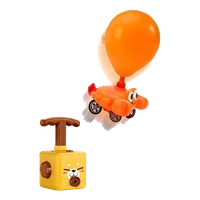
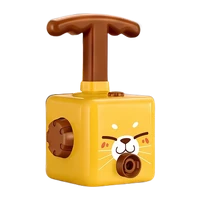
Дракон и багги переделаны, вуаль под героем, в кружках наборов только насос, подпись внизу убрана
- багги: заднее колесо дорисовано чистым, без пыли и листьев поверх; фон и вырезка пересобраны
- дракон: новая цельная сцена по референсам комплекта — насос и машинка как в наборе, машинка вылетает из насоса
- вуаль палитры лежит между фоном и героем, тон у наборов глубокий: насос больше не сливается с полом
- кружки наборов — только насос; служебная подпись внизу убрана

diff --git a/index.html b/index.html
@@ -109,15 +109,19 @@
     background:radial-gradient(50% 50% at 50% 50%, rgba(0,0,0,.35), rgba(0,0,0,0) 72%);
     transform-origin:center; pointer-events:none;
   }
-  .tint{
-    position:absolute; inset:0; z-index:1; pointer-events:none;
-    background:linear-gradient(to top, var(--bg) 0%, var(--bg) 6%, rgba(0,0,0,0) 100%);
+  /* Передний кадр повторяет геометрию фона, но без маски: герой не тускнеет у краёв */
+  .layer .frame.fg{-webkit-mask-image:none; mask-image:none}
+  /* Вуаль — затемнение в тоне палитры: внизу под текст, вверху под логотип. Лежит МЕЖДУ фоном и героем,
+     поэтому товар остаётся ярким, а пол вокруг него уходит в тень — насос не сливается с фоном */
+  .layer .veil{
+    position:absolute; inset:0; pointer-events:none;
+    background:linear-gradient(to top, var(--bg) 0%, var(--bg) 4%, rgba(0,0,0,0) 58%);
   }
   @supports (background: color-mix(in srgb, red 50%, transparent)){
-    .tint{
+    .layer .veil{
       background:
-        linear-gradient(to top, var(--bg) 0%, var(--bg) 4%, color-mix(in srgb, var(--bg) 80%, transparent) 22%, color-mix(in srgb, var(--bg) 35%, transparent) 46%, rgba(0,0,0,0) 62%),
-        linear-gradient(to bottom, color-mix(in srgb, var(--bg) 45%, transparent) 0%, rgba(0,0,0,0) 22%);
+        linear-gradient(to top, var(--bg) 0%, color-mix(in srgb, var(--bg) 94%, transparent) 10%, color-mix(in srgb, var(--bg) 75%, transparent) 24%, color-mix(in srgb, var(--bg) 42%, transparent) 40%, rgba(0,0,0,0) 56%),
+        linear-gradient(to bottom, color-mix(in srgb, var(--bg) 42%, transparent) 0%, rgba(0,0,0,0) 20%);
     }
   }
 
@@ -203,11 +207,6 @@
   }
   .rail button:focus-visible{outline-offset:4px}
 
-  .foot{
-    position:absolute; left:var(--gutter); bottom:calc(10px + env(safe-area-inset-bottom)); z-index:2;
-    margin:0; font-size:14px; color:var(--fg2); display:none;
-  }
-
   /* Низкие экраны: миниатюры компактнее, чтобы лента умещалась над текстом */
   @media (max-height:700px) and (max-width:899px){
     :root{--thumb:50px; --rail-gap:8px}
@@ -232,7 +231,6 @@
     .short{font-size:18px; margin-top:14px}
     .pills{margin-top:28px; gap:12px}
     .pill{height:56px; padding:0 24px 0 22px; font-size:17px}
-    .foot{display:block}
   }
   @media (min-width:1600px){
     h1{font-size:58px}
@@ -246,7 +244,6 @@
 <body>
 <div class="scene" id="scene">
   <div class="cover" id="cover" aria-hidden="true"></div>
-  <div class="tint" aria-hidden="true"></div>
   <header class="top">
     <a class="logo" href="#" id="logo-link" aria-label="Dasdorrio — в начало">
       <img id="logo" src="logo/dasdorrio-light.webp" width="340" height="171" alt="Dasdorrio">
@@ -263,7 +260,6 @@
   </main>
 
   <nav class="rail" id="rail" aria-label="Выбор товара"></nav>
-  <p class="foot">Товары продаются на маркетплейсах и в магазине — сайт только показывает, где.</p>
   <noscript><p style="padding:20px">Для выбора товара нужен JavaScript. Все товары есть на Wildberries и Ozon по запросу «Dasdorrio».</p></noscript>
 </div>
 
@@ -351,7 +347,7 @@
     });
   }
 
-  /* Слой сцены: размытая заливка + кадр с фоном, героем на своём месте и тенью под ним */
+  /* Слой сцены: размытая заливка + кадр с фоном + вуаль + передний кадр с тенью и героем на своём месте */
   function buildLayer(t, g) {
     var box = t.геройБокс || [0.3, 0.3, 0.4, 0.4];
     var layer = document.createElement('div');
@@ -363,19 +359,21 @@
       var bg = document.createElement('img'); bg.className = 'bg'; bg.src = t.сцена; bg.alt = '';
       frame.appendChild(bg);
     }
+    var veil = document.createElement('div'); veil.className = 'veil';
+    var fg = document.createElement('div'); fg.className = 'frame fg';
     var shadow = document.createElement('div'); shadow.className = 'shadow';
     shadow.style.setProperty('--sx', (box[0] + box[2] * 0.08) * 100 + '%');
     shadow.style.setProperty('--sw', box[2] * 0.84 * 100 + '%');
     shadow.style.setProperty('--sy', (box[1] + box[3] * 0.93) * 100 + '%');
     shadow.style.setProperty('--sh', box[3] * 0.12 * 100 + '%');
-    frame.appendChild(shadow);
+    fg.appendChild(shadow);
     var hero = document.createElement('img'); hero.className = 'hero';
     hero.src = t.герой; hero.alt = t.название; hero.setAttribute('fetchpriority', 'high');
     hero.style.setProperty('--hx', box[0] * 100 + '%');
     hero.style.setProperty('--hy', box[1] * 100 + '%');
     hero.style.setProperty('--hw', box[2] * 100 + '%');
-    frame.appendChild(hero);
-    layer.appendChild(blur); layer.appendChild(frame);
+    fg.appendChild(hero);
+    layer.appendChild(blur); layer.appendChild(frame); layer.appendChild(veil); layer.appendChild(fg);
     return { layer: layer, frame: frame, hero: hero, shadow: shadow };
   }
 

diff --git a/products.js b/products.js
@@ -7,14 +7,17 @@
    название   — крупно на сцене, 1–3 слова
    коротко    — одна строка под названием, до 45 знаков, без рекламных прилагательных
    герой      — вырезанный товар без фона, webp до 1200 px и ≤ 150 КБ
-   миниатюра  — квадрат 160×160 для ленты справа, ≤ 15 КБ
+   миниатюра  — квадрат 200×200 для ленты справа, ≤ 18 КБ: товар целиком,
+                у наборов — только насос, самая узнаваемая деталь
    сцена      — цельная картинка мира товара БЕЗ самого товара (photo/bg/), квадрат 1400 px, ≤ 130 КБ;
                 герой вырезан из той же картинки и ставится на своё место по геройБокс
    геройБокс  — [x, y, ширина, высота] в долях квадрата сцены: где в кадре стоит герой
-   палитра    — цвета сцены этого товара, берутся с самого товара:
-                фон / фон2 — сцена и её тень, акцент / акцент2 — два цвета деталей,
+   палитра    — цвета этого товара:
+                фон — глубокий тон вуали под текстом и логотипом: ТЕМНЕЕ самого товара,
+                иначе товар сливается с ней (у мятного насоса — тёмно-бирюзовый, у жёлтого — коричневый),
+                фон2 — ещё темнее (запас), акцент / акцент2 — два цвета деталей,
                 текст / текст2 — основной и вторичный (контраст к фону ≥ 4,5:1 проверен),
-                логотип — 'светлый' на тёмных сценах, 'тёмный' на светлых
+                логотип — 'светлый' на тёмных вуалях, 'тёмный' на светлых
    ссылки     — wb, ozon, market (Яндекс Маркет), shop (dasdorrio.ru) */
 
 const ТОВАРЫ = [
@@ -25,7 +28,7 @@ const ТОВАРЫ = [
     герой: 'photo/mashinka-hero.webp',
     миниатюра: 'photo/mashinka-thumb.webp',
     сцена: 'photo/bg/mashinka.webp',
-    геройБокс: [0.0908, 0.3594, 0.7686, 0.3423],
+    геройБокс: [0.0908, 0.3594, 0.7695, 0.3428],
     палитра: { фон: '#1B2620', фон2: '#0F1915', акцент: '#B8F53C', акцент2: '#FFD400', текст: '#F4F8F2', текст2: '#A8BDB0', логотип: 'светлый' },
     ссылки: {
       wb: 'https://www.wildberries.ru/catalog/818290060/detail.aspx',
@@ -55,8 +58,8 @@ const ТОВАРЫ = [
     герой: 'photo/drakon-hero.webp',
     миниатюра: 'photo/drakon-thumb.webp',
     сцена: 'photo/bg/drakon.webp',
-    геройБокс: [0.3936, 0.189, 0.4399, 0.5996],
-    палитра: { фон: '#0B7C69', фон2: '#075A4C', акцент: '#FFD23F', акцент2: '#2F7BE8', текст: '#FFFFFF', текст2: '#DDF7EF', логотип: 'светлый' },
+    геройБокс: [0.3125, 0.0771, 0.5884, 0.731],
+    палитра: { фон: '#0A4F44', фон2: '#063A32', акцент: '#FFD23F', акцент2: '#2F7BE8', текст: '#FFFFFF', текст2: '#CDEBE3', логотип: 'светлый' },
     ссылки: {
       wb: 'https://www.wildberries.ru/catalog/333934146/detail.aspx',
       ozon: 'https://www.ozon.ru/product/2129345617/',
@@ -71,7 +74,7 @@ const ТОВАРЫ = [
     миниатюра: 'photo/medved-thumb.webp',
     сцена: 'photo/bg/medved.webp',
     геройБокс: [0.3906, 0.1582, 0.4502, 0.6665],
-    палитра: { фон: '#F0A500', фон2: '#D48D00', акцент: '#7E3511', акцент2: '#FF7A1A', текст: '#3B1E06', текст2: '#5E3208', логотип: 'тёмный' },
+    палитра: { фон: '#7A4300', фон2: '#5A3100', акцент: '#FFB300', акцент2: '#FF7A1A', текст: '#FFFFFF', текст2: '#F7DDB0', логотип: 'светлый' },
     ссылки: {
       wb: 'https://www.wildberries.ru/catalog/333952078/detail.aspx',
       ozon: 'https://www.ozon.ru/product/2129370462/',
@@ -86,7 +89,7 @@ const ТОВАРЫ = [
     миниатюра: 'photo/monstr-thumb.webp',
     сцена: 'photo/bg/monstr.webp',
     геройБокс: [0.3945, 0.1226, 0.417, 0.6602],
-    палитра: { фон: '#2E7D22', фон2: '#1F5C17', акцент: '#E23D28', акцент2: '#F5C531', текст: '#FFFFFF', текст2: '#E4F6DE', логотип: 'светлый' },
+    палитра: { фон: '#1B5A14', фон2: '#123F0D', акцент: '#F5C531', акцент2: '#E23D28', текст: '#FFFFFF', текст2: '#D6F0CF', логотип: 'светлый' },
     ссылки: {
       wb: 'https://www.wildberries.ru/catalog/333958215/detail.aspx',
       ozon: 'https://www.ozon.ru/product/2129364886/',
